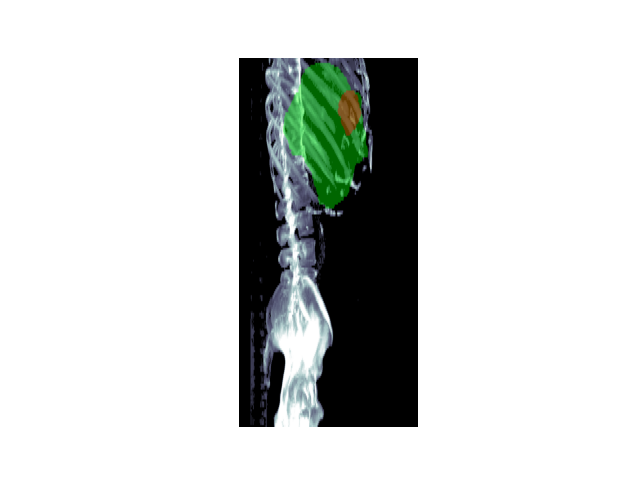
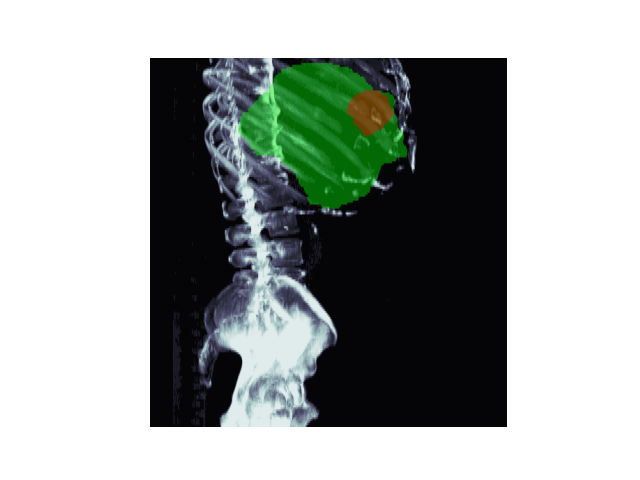
fix aspect ratio

diff --git a/task1_animation.py b/task1_animation.py
@@ -78,9 +78,9 @@ def main(ct_path, tumor_path, liver_path, n):
 
     # Normalization parameters
     img_min, img_max = 0, 800
-    slice_thickness = float(dcms_full_patient[0].SliceThickness)
+    spacing_between_slices = float(dcms_full_patient[0].SpacingBetweenSlices)
     pixel_spacing = float(dcms_full_patient[0].PixelSpacing[0])
-    aspect = slice_thickness / pixel_spacing
+    aspect = spacing_between_slices / pixel_spacing
     cmap_bone = plt.get_cmap('bone')
 
     projections = []
